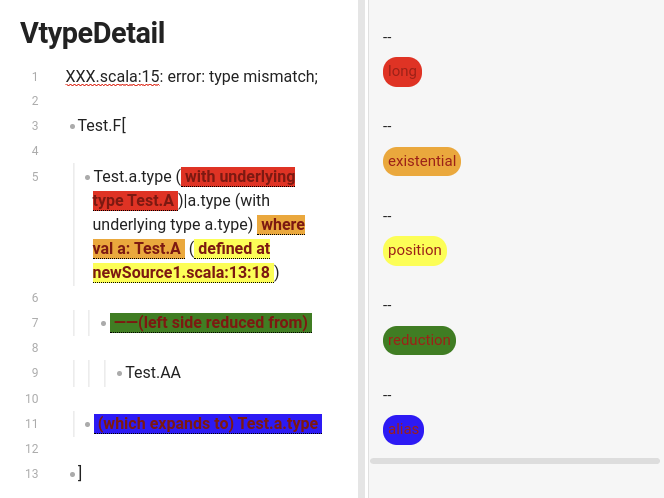
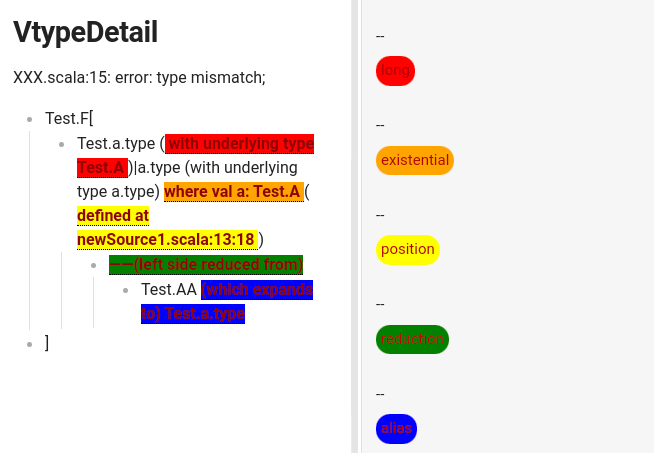
fix a diagram

diff --git a/img/VtypeDetail.md b/img/VtypeDetail.md
@@ -2,12 +2,10 @@ XXX.scala:15: error: type mismatch;
 
 - Test.F\[
 
-    - Test.a.type (<label class="ob-comment" title="" style="background:red"> with underlying type Test.A <input type="checkbox"> <span style=""> long </span></label>)|a.type (with underlying type a.type) <label class="ob-comment" title="" style="background:orange"> where val a: Test.A <input type="checkbox"> <span style=""> existential </span></label> (<label class="ob-comment" title="" style="background:yellow"> defined at newSource1.scala:13:18 <input type="checkbox"> <span style=""> position </span></label>)
+  - Test.a.type (<label class="ob-comment" title="" style="background:red"> with underlying type Test.A <input type="checkbox"> <span style=""> long </span></label>)|a.type (with underlying type a.type) <label class="ob-comment" title="" style="background:orange"> where val a: Test.A <input type="checkbox"> <span style=""> existential </span></label> (<label class="ob-comment" title="" style="background:yellow"> defined at newSource1.scala:13:18 <input type="checkbox"> <span style=""> position </span></label>)
 
-        - <label class="ob-comment" title="" style="background:green">     ――(left side reduced from) <input type="checkbox"> <span style=""> reduction </span></label>
+    - <label class="ob-comment" title="" style="background:green"> ――(left side reduced from) <input type="checkbox"> <span style=""> reduction </span></label>
 
-            - Test.AA
-
-    - <label class="ob-comment" title="" style="background:blue"> (which expands to)  Test.a.type <input type="checkbox"> <span style=""> alias </span></label>
+      - Test.AA  <label class="ob-comment" title="" style="background:blue"> (which expands to)  Test.a.type <input type="checkbox"> <span style=""> alias </span></label>
 
 - \]

diff --git a/img/VtypeDiffsDetail.md b/img/VtypeDiffsDetail.md
@@ -1,12 +1,13 @@
 XXX.scala:16: error: implicit error;
+
 - !I ev:
 
-    - Long(<label class="ob-comment" title="" style="background:red"> in method add <input type="checkbox"> <span style=""> disambiguation </span></label>) =:= scala.Long
+  - Long(<label class="ob-comment" title="" style="background:red"> in method add <input type="checkbox"> <span style=""> disambiguation </span></label>) =:= scala.Long
 
-    - ――(<label class="ob-comment" title="" style="background:yellow"> comparing \<found\> =:= \<required\> <input type="checkbox"> <span style=""> builtIn </span></label>)
+  - ――(<label class="ob-comment" title="" style="background:yellow"> comparing \<found\> =:= \<required\> <input type="checkbox"> <span style=""> builtIn </span></label>)
 
-        - found   : Long(in method add)
+    - found   : Long(in method add)
 
-        - required: scala.Long
+    - required: scala.Long
 
-    - Cannot prove that Long =:= Long.
+  - Cannot prove that Long =:= Long.
